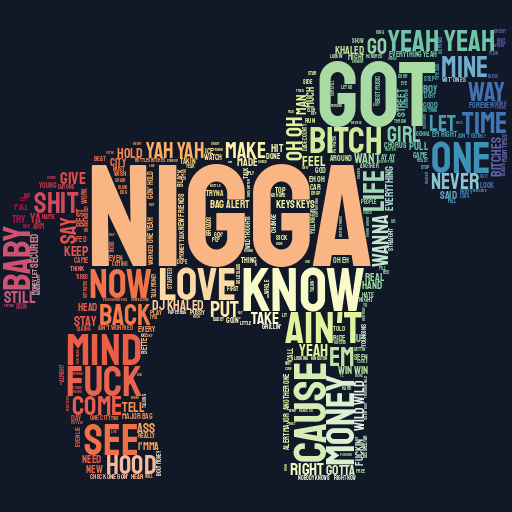
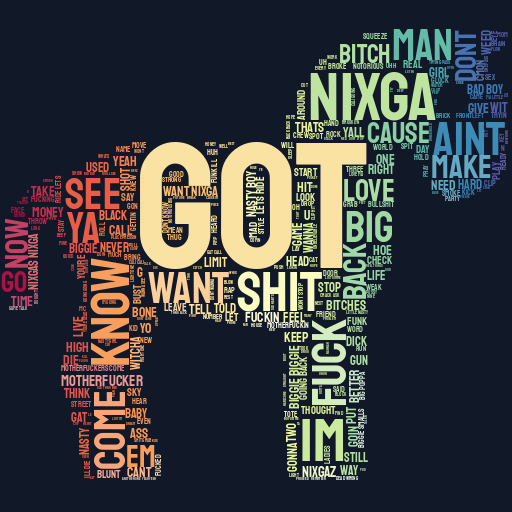
Fix wordcloud

diff --git a/dataviz/components/singerComponent.vue b/dataviz/components/singerComponent.vue
@@ -237,7 +237,7 @@ const _splineData = {
     series: []
 }
 
-const github_base_url = "https://raw.githubusercontent.com/com-480-data-visualization/datavis-project-2022-shazam/main/dataset/crawler/data/singers/"
+const github_base_url = "https://raw.githubusercontent.com/com-480-data-visualization/datavis-project-2022-shazam/main/dataset/crawler/data/"
 
 export default {
   name: 'Singer',
@@ -248,7 +248,7 @@ export default {
 
       singerDiscographyData: null, // raw JSON data
       singerProfileData: {image: "https://picsum.photos/200"}, // raw singer info
-      singerWordCloudPath: "~/assets/wordcloud.svg",
+      singerWordCloudPath: github_base_url + "wordcloud/wordcloud.svg",
 
       radarRef: null,
       radarChartData: _radarChartData,
@@ -267,7 +267,7 @@ export default {
 
       {
         const res = await fetch(
-            github_base_url + encodeURIComponent(this.singerName) + ".json"
+            github_base_url + "/singers/" + encodeURIComponent(this.singerName) + ".json"
         )
         this.singerDiscographyData = await res.json()
 
@@ -276,7 +276,7 @@ export default {
 
       {
         const res = await fetch(
-            github_base_url + "info/" + encodeURIComponent(this.singerName) + ".json"
+            github_base_url + "/singers/info/" + encodeURIComponent(this.singerName) + ".json"
         )
         this.singerProfileData = await res.json()
 
@@ -371,7 +371,7 @@ export default {
   mounted() {
     this.singerName = this.$route.params['singer'] || "Taylor Swift"
     console.log(this.singerName)
-    this.singerWordCloudPath = "~/assets/" + this.singerName + ".png",
+    this.singerWordCloudPath = github_base_url + "wordcloud/" + encodeURIComponent(this.singerName) + ".png"
 
     this.fetchData()
 
@@ -445,7 +445,7 @@ export default {
     <!-- word cloud -->
     <div class="container mx-auto grid grid-cols-2 place-content-center mt-6">
         <div class="flex items-center justify-center">
-            <img v-bind:src="this.singerWordCloudPath" alt="Word cloud" class="h-80 flex-no-shrink fill-current"/>
+            <img v-bind:src="this.singerWordCloudPath" alt="Word cloud" class="flex-no-shrink fill-current"/>
         </div>
         <div class="container self-center">
             <h3 class="text-2xl lg:text-3xl font-bold leading-tight mb-2 text-gray-100 text-left">

diff --git a/dataviz/components/yearlyComponent.vue b/dataviz/components/yearlyComponent.vue
@@ -331,6 +331,8 @@ export default {
       yearlyTopSingers: null,
       yearlyTopTracks: null,
       yearlyAudioFeatures: null,
+
+      singerWordCloudPath: github_base_url + "wordcloud/wordcloud.svg",
     }
   },
 
@@ -471,6 +473,8 @@ export default {
       this.year = e.path[0].innerHTML
     //   console.log(this.year)
 
+      this.singerWordCloudPath = github_base_url + "wordcloud/" + this.year + ".png",
+
       this.updateShouldDisplay()
     },
   },
@@ -559,7 +563,7 @@ export default {
     <!-- word cloud -->
     <div v-show="shouldDisplay" class="container mx-auto grid grid-cols-2 place-content-center m-6">
         <div class="flex items-center justify-center">
-            <img src="~/assets/wordcloud.svg" alt="Wordcloud" class="h-80 flex-no-shrink fill-current"/>
+            <img v-bind:src="this.singerWordCloudPath" alt="Word cloud" class="flex-no-shrink fill-current"/>
         </div>
 
          <div class="container self-center">
